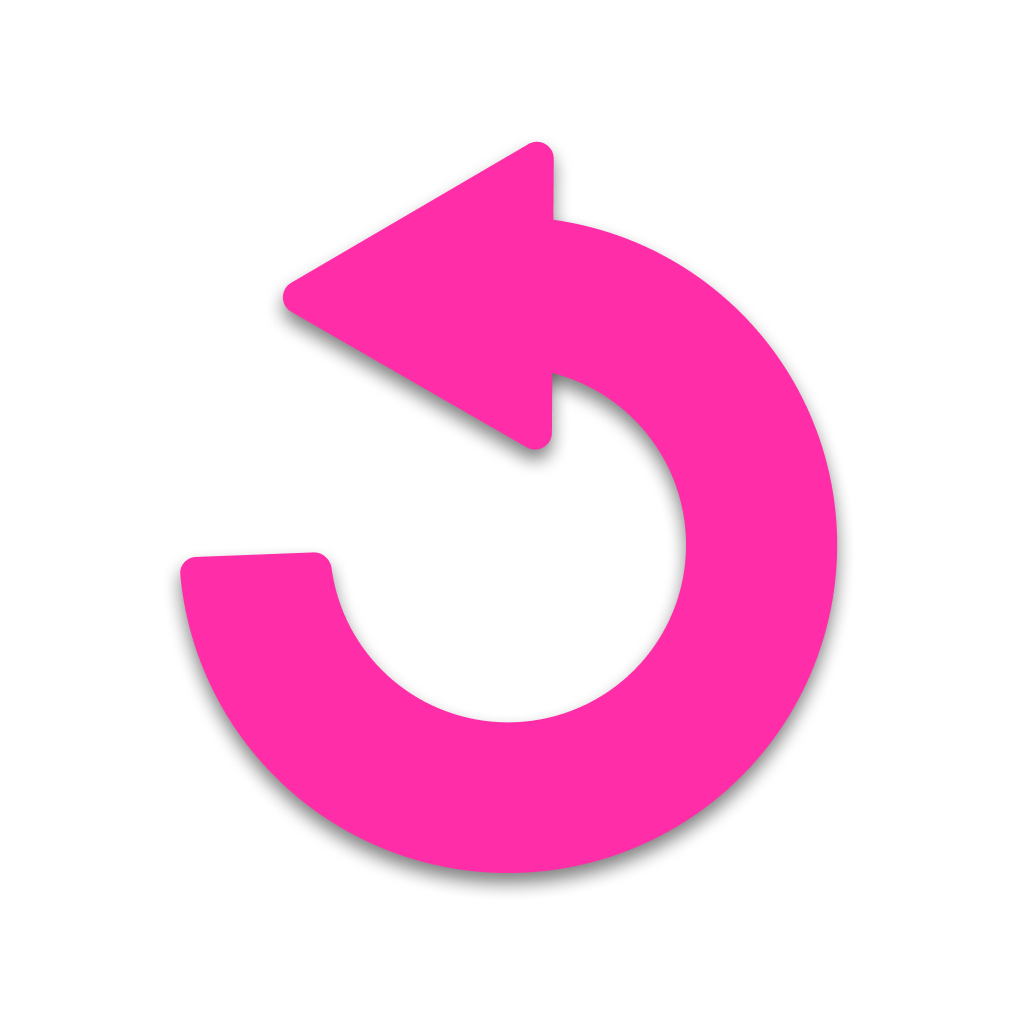
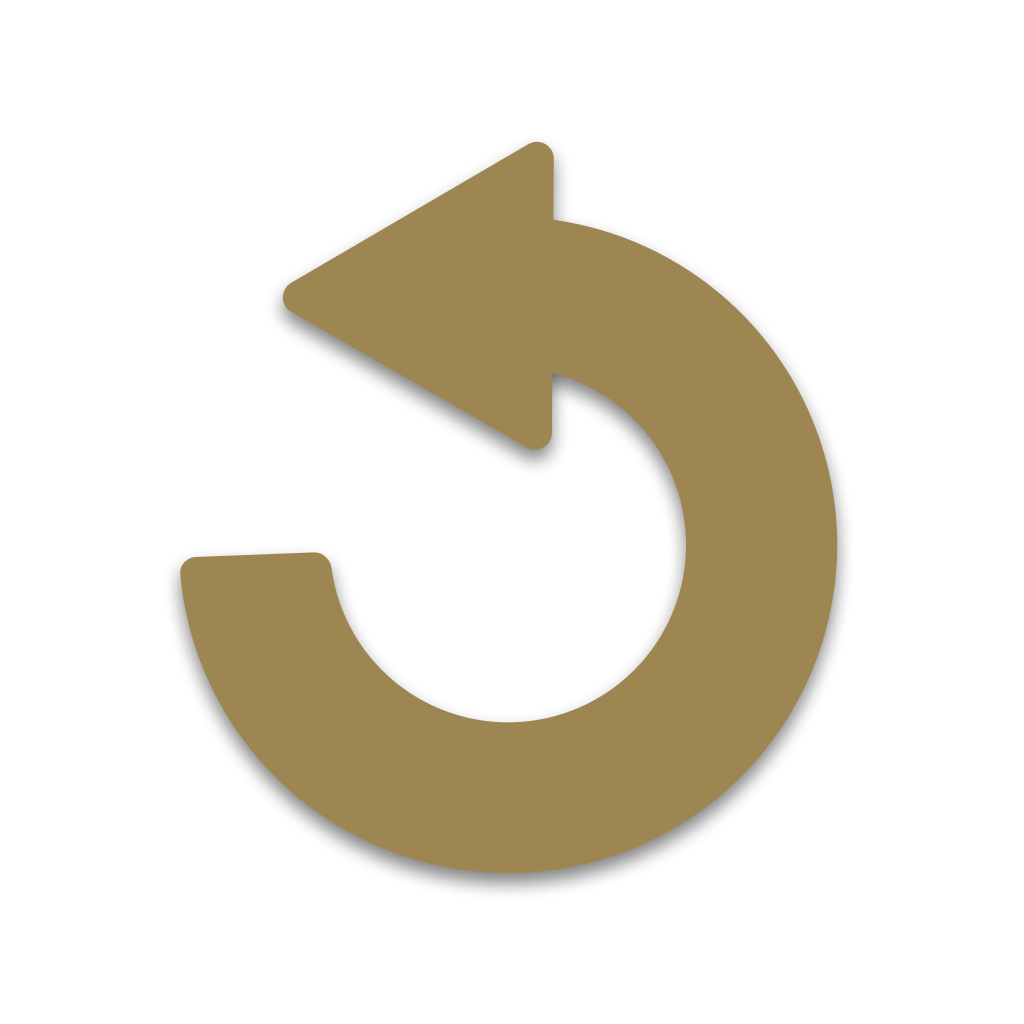
layout dourado finalizado

Changed region(s): [[0.1562, 0.125, 0.8438, 0.875]]

diff --git a/pages/profile/[profile_id].tsx b/pages/profile/[profile_id].tsx
@@ -72,7 +72,7 @@ const Profile = () => {
     } catch (error) {
       console.error(error);
       console.log(
-        "Erro ao buscar imagem de perfil!!! f(handleGetProfileImage)"
+        "Erro ao buscar imagem de perfil!!! f(handleGetProfileImage)",
       );
     }
   };
@@ -110,7 +110,7 @@ const Profile = () => {
     } catch (error) {
       console.error(error);
       console.log(
-        "Erro ao buscar video na galeria do perfil!!! f(handleGetVideo)"
+        "Erro ao buscar video na galeria do perfil!!! f(handleGetVideo)",
       );
     }
   };
@@ -132,7 +132,7 @@ const Profile = () => {
     } catch (error) {
       console.error(error);
       console.log(
-        "Erro ao atualizar background color em body!!! f(handleChangeBodyColor)"
+        "Erro ao atualizar background color em body!!! f(handleChangeBodyColor)",
       );
     }
   };
@@ -318,14 +318,14 @@ const Profile = () => {
               <div className="md:grid md:grid-cols-3 md:w-full md:justify-start">
                 <div id="resume" className="grid grid-cols-3 md:py-5 w-full">
                   <div
-                    className={`grid grid-cols-3 py-5 col-span-3 rounded-3xl md:bg-[#D9D9D9] shadow-none mr-5 lg:pl-4 md:pl-0 pb-10 md:grid-cols-1 lg:grid-cols-3 md:shadow md:shadow-lg md:shadow-[#EC268F]`}
+                    className={`grid grid-cols-3 py-5 col-span-3 rounded-3xl md:bg-[#D9D9D9] shadow-none mr-5 lg:pl-4 md:pl-0 pb-10 md:grid-cols-1 lg:grid-cols-3 md:shadow md:shadow-lg md:shadow-[#9D8652]`}
                   >
                     <div className="flex justify-start md:justify-center">
                       <div className="w-24 h-24 xl:w-32 xl:h-32">
                         <img
                           src={profileImage}
                           alt="Imagem Não encontrada"
-                          className="rounded-full w-full h-full object-cover shadow shadow-lg shadow-[#EC268F]"
+                          className="rounded-full w-full h-full object-cover shadow shadow-lg shadow-[#9D8652]"
                         />
                       </div>
                     </div>
@@ -356,7 +356,7 @@ const Profile = () => {
                           <h3
                             onClick={() => {
                               window.open(
-                                `https://api.whatsapp.com/send?phone=55${Profile[0]?.celular}&text=Olá, vi seu perfil no Base Rosa Sp, gostaria de mais informações`
+                                `https://api.whatsapp.com/send?phone=55${Profile[0]?.celular}&text=Olá, vi seu perfil no Base Rosa Sp, gostaria de mais informações`,
                               );
                             }}
                             className={`ml-1 cursor-pointer text-md md:text-sm lg:text-md  ${
@@ -372,7 +372,7 @@ const Profile = () => {
                     </div>
                   </div>
                   <div
-                    className={`overflow-x-auto relative shadow-md rounded-3xl my-10 col-span-3 mr-5 hidden md:block shadow shadow-lg shadow-[#EC268F]`}
+                    className={`overflow-x-auto relative shadow-md rounded-3xl my-10 col-span-3 mr-5 hidden md:block shadow shadow-lg shadow-[#9D8652]`}
                   >
                     <table className="w-full text-sm text-left ">
                       <thead className="text-xs text-gray-700 uppercase bg-gray-50 dark:bg-gray-700 dark:text-gray-400">
@@ -665,7 +665,7 @@ const Profile = () => {
                 </div>
                 <div
                   id="divisor"
-                  className={`w-full h-[4px]  rounded-full md:hidden bg-[#EC268F]`}
+                  className={`w-full h-[4px]  rounded-full md:hidden bg-[#9D8652]`}
                 />
 
                 <div
@@ -687,7 +687,7 @@ const Profile = () => {
                           : "https://viudhkddfyymxinmimyo.supabase.co/storage/v1/object/public/photos/default"
                       }
                       alt="Imagem Não encontrada"
-                      className={`rounded-3xl shadow object-cover h-full md:h-[33rem] rounded-3xl shadow shadow-lg shadow-[#EC268F]`}
+                      className={`rounded-3xl shadow object-cover h-full md:h-[33rem] rounded-3xl shadow shadow-lg shadow-[#9D8652]`}
                     />
                   </div>
                   <div className="grid grid-cols-1 gap-4 w-full h-48 md:h-[33rem] cursor-pointer">
@@ -696,7 +696,7 @@ const Profile = () => {
                         setcurrentPhotoInViewMode(1);
                         setViewPhotoMode(true);
                       }}
-                      className={`flex justify-center items-center relative w-full bg-transparent overflow-hidden rounded-3xl shadow shadow-lg shadow-[#EC268F]`}
+                      className={`flex justify-center items-center relative w-full bg-transparent overflow-hidden rounded-3xl shadow shadow-lg shadow-[#9D8652]`}
                     >
                       <img
                         id="02"
@@ -714,7 +714,7 @@ const Profile = () => {
                         setcurrentPhotoInViewMode(2);
                         setViewPhotoMode(true);
                       }}
-                      className={`flex justify-center items-center relative w-full bg-transparent cursor-pointer overflow-hidden rounded-3xl shadow shadow-lg shadow-[#EC268F]`}
+                      className={`flex justify-center items-center relative w-full bg-transparent cursor-pointer overflow-hidden rounded-3xl shadow shadow-lg shadow-[#9D8652]`}
                     >
                       <img
                         id="03"
@@ -743,7 +743,7 @@ const Profile = () => {
                           : "https://viudhkddfyymxinmimyo.supabase.co/storage/v1/object/public/photos/default"
                       }
                       alt="Imagem Não encontrada"
-                      className={`md:h-[33rem] h-full object-cover rounded-3xl shadow shadow-lg shadow-[#EC268F]`}
+                      className={`md:h-[33rem] h-full object-cover rounded-3xl shadow shadow-lg shadow-[#9D8652]`}
                     />
                   </div>
                   <div
@@ -756,7 +756,7 @@ const Profile = () => {
                     <img
                       // onError={() => {
                       //   const img = Dom.querySelector(
-                      //     "md:h-[33rem] full object-cover rounded-3xl shadow shadow-lg shadow-[#EC268F]"
+                      //     "md:h-[33rem] full object-cover rounded-3xl shadow shadow-lg shadow-[#9D8652]"
                       //   );
                       //   if (img !== null) {
                       //     img.style.display = "none";
@@ -769,7 +769,7 @@ const Profile = () => {
                           : "https://viudhkddfyymxinmimyo.supabase.co/storage/v1/object/public/photos/404"
                       }
                       alt="Imagem Não encontrada"
-                      className={`md:h-[33rem] full object-cover rounded-3xl shadow shadow-lg shadow-[#EC268F]`}
+                      className={`md:h-[33rem] full object-cover rounded-3xl shadow shadow-lg shadow-[#9D8652]`}
                     />
                   </div>
                   <div
@@ -787,19 +787,19 @@ const Profile = () => {
                           : "https://viudhkddfyymxinmimyo.supabase.co/storage/v1/object/public/photos/default"
                       }
                       alt="Imagem Não encontrada"
-                      className={`h-full md:h-[33rem] object-cover rounded-3xl shadow shadow-lg shadow-[#EC268F]`}
+                      className={`h-full md:h-[33rem] object-cover rounded-3xl shadow shadow-lg shadow-[#9D8652]`}
                     />
                   </div>
                 </div>
                 <div
                   id="divisor 2"
-                  className={`w-full h-[4px] rounded-full mt-10 col-span-3 bg-[#EC268F]`}
+                  className={`w-full h-[4px] rounded-full mt-10 col-span-3 bg-[#9D8652]`}
                 />
                 <div className="col-span-3">
                   <h1 className="text-xl font-semibold">Vídeo</h1>
 
                   <div
-                    className={`flex justify-center w-full h-48 md:h-[33rem] bg-gray-400 my-5 rounded-3xl shadow shadow-lg shadow-[#EC268F]`}
+                    className={`flex justify-center w-full h-48 md:h-[33rem] bg-gray-400 my-5 rounded-3xl shadow shadow-lg shadow-[#9D8652]`}
                   >
                     <video
                       className="w-full h-48 md:h-[33rem] rounded-3xl"
@@ -812,7 +812,7 @@ const Profile = () => {
                   </div>
                 </div>
                 <div
-                  className={`overflow-x-auto relative shadow-md rounded-3xl my-10 shadow shadow-md md:hidden shadow shadow-lg shadow-[#EC268F]`}
+                  className={`overflow-x-auto relative shadow-md rounded-3xl my-10 shadow shadow-md md:hidden shadow shadow-lg shadow-[#9D8652]`}
                 >
                   <table className="w-full text-sm text-left ">
                     <thead className="text-xs text-gray-700 uppercase bg-gray-50 dark:bg-gray-700 dark:text-gray-400">
@@ -1110,7 +1110,7 @@ const Profile = () => {
         <div
           onClick={() => {
             window.open(
-              `https://api.whatsapp.com/send?phone=55${Profile[0]?.celular}&text=Ol%C3%A1,%20vi%20seu%20perfil%20na%20Base%20Rosa%20Sp,%20gostaria%20de%20mais%20informa%C3%A7%C3%B5es%20%E2%9D%A4`
+              `https://api.whatsapp.com/send?phone=55${Profile[0]?.celular}&text=Ol%C3%A1,%20vi%20seu%20perfil%20na%20Base%20Rosa%20Sp,%20gostaria%20de%20mais%20informa%C3%A7%C3%B5es%20%E2%9D%A4`,
             );
           }}
           className="relative flex justify-center items-center z-20 text-center rounded-xl bg-[#26852B] p-2 text-white cursor-pointer"

diff --git a/pages/index.tsx b/pages/index.tsx
@@ -103,7 +103,7 @@ export default function Home() {
       const { data } = supabase.storage
         .from("photos")
         .getPublicUrl(
-          `${AllGirls[girlNumberCount]?.id}/${AllGirls[girlNumberCount]?.id}_capa`
+          `${AllGirls[girlNumberCount]?.id}/${AllGirls[girlNumberCount]?.id}_capa`,
         );
 
       if (data) {
@@ -112,7 +112,7 @@ export default function Home() {
     } catch (error) {
       console.error(error);
       console.log(
-        "Erro ao buscar foto de capa da garota atual!!! f(handleGetCurrentGirlImage)"
+        "Erro ao buscar foto de capa da garota atual!!! f(handleGetCurrentGirlImage)",
       );
     }
   };
@@ -125,7 +125,7 @@ export default function Home() {
           .getPublicUrl(
             `${AllGirls[girlNumberCount - 1]?.id}/${
               AllGirls[girlNumberCount - 1]?.id
-            }_capa`
+            }_capa`,
           );
 
         if (data) {
@@ -137,7 +137,7 @@ export default function Home() {
     } catch (error) {
       console.error(error);
       console.log(
-        "Erro ao buscar foto de capa da garota anterior!!! f(handleGetPreviousGirlImage)"
+        "Erro ao buscar foto de capa da garota anterior!!! f(handleGetPreviousGirlImage)",
       );
     }
   };
@@ -152,7 +152,7 @@ export default function Home() {
           .getPublicUrl(
             `${AllGirls[girlNumberCount + 1]?.id}/${
               AllGirls[girlNumberCount + 1]?.id
-            }_capa`
+            }_capa`,
           );
 
         if (data) {
@@ -162,7 +162,7 @@ export default function Home() {
     } catch (error) {
       console.error(error);
       console.log(
-        "Erro ao buscar foto de capa da proxima garota!!! f(handleGetNextGirlImage)"
+        "Erro ao buscar foto de capa da proxima garota!!! f(handleGetNextGirlImage)",
       );
     }
   };
@@ -196,7 +196,7 @@ export default function Home() {
     } catch (error) {
       console.error(error);
       console.log(
-        "Erro ao atualizar background color em body!!! f(handleChangeBodyColor)"
+        "Erro ao atualizar background color em body!!! f(handleChangeBodyColor)",
       );
     }
   };
@@ -264,13 +264,13 @@ export default function Home() {
               Anterior
             </h1>
             {girlNumberCount === 0 && (
-              <div className="flex justify-center shadow-md shadow-[#EC268F] items-center text-2xl text-[#828282] bg-white w-full rounded-3xl md:w-[250px] lg:w-[300px] xl:w-[350px] 2xl:w-[400px] md:h-[300px] lg:h-[350px] xl:h-[500px] 2xl:h-[600px]">
+              <div className="flex justify-center shadow-md shadow-[#9D8652] items-center text-2xl text-[#828282] bg-white w-full rounded-3xl md:w-[250px] lg:w-[300px] xl:w-[350px] 2xl:w-[400px] md:h-[300px] lg:h-[350px] xl:h-[500px] 2xl:h-[600px]">
                 <h1>Vazio</h1>
               </div>
             )}
             {girlNumberCount > 0 && (
               <div>
-                <div className="rounded-3xl shadow-md shadow-[#EC268F] md:w-[150px] lg:w-[250px] xl:w-[300px] 2xl:w-[350px] md:h-[200px] lg:h-[300px] xl:h-[400px] 2xl:h-[500px]">
+                <div className="rounded-3xl shadow-md shadow-[#9D8652] md:w-[150px] lg:w-[250px] xl:w-[300px] 2xl:w-[350px] md:h-[200px] lg:h-[300px] xl:h-[400px] 2xl:h-[500px]">
                   <img
                     src={previousGirl}
                     alt=""
@@ -369,7 +369,7 @@ export default function Home() {
                 <img
                   src={currentGirl}
                   alt=""
-                  className={`rounded-3xl shadow shadow-xl brightness-75 shadow-[#EC268F]  md:w-[150px] lg:w-[300px] xl:w-[300px] 2xl:w-[350px] md:h-[200px] lg:h-[350px] xl:h-[400px] 2xl:h-[500px]`}
+                  className={`rounded-3xl shadow shadow-xl brightness-75 shadow-[#9D8652]  md:w-[150px] lg:w-[300px] xl:w-[300px] 2xl:w-[350px] md:h-[200px] lg:h-[350px] xl:h-[400px] 2xl:h-[500px]`}
                 />
               </div>
 
@@ -465,13 +465,13 @@ export default function Home() {
               Próxima
             </h1>
             {girlNumberCount + 1 === AllGirls.length && (
-              <div className="flex justify-center shadow-md shadow-[#EC268F] items-center text-2xl text-[#828282] bg-white w-full rounded-3xl md:w-[250px] lg:w-[300px] xl:w-[350px] 2xl:w-[400px] md:h-[300px] lg:h-[350px] xl:h-[500px] 2xl:h-[600px]">
+              <div className="flex justify-center shadow-md shadow-[#9D8652] items-center text-2xl text-[#828282] bg-white w-full rounded-3xl md:w-[250px] lg:w-[300px] xl:w-[350px] 2xl:w-[400px] md:h-[300px] lg:h-[350px] xl:h-[500px] 2xl:h-[600px]">
                 <h1>Vazio</h1>
               </div>
             )}
             {girlNumberCount + 1 < AllGirls.length && (
               <div>
-                <div className="rounded-3xl shadow-md shadow-[#EC268F] md:w-[150px] lg:w-[250px] xl:w-[300px] 2xl:w-[350px] md:h-[200px] lg:h-[300px] xl:h-[400px] 2xl:h-[500px]">
+                <div className="rounded-3xl shadow-md shadow-[#9D8652] md:w-[150px] lg:w-[250px] xl:w-[300px] 2xl:w-[350px] md:h-[200px] lg:h-[300px] xl:h-[400px] 2xl:h-[500px]">
                   <img
                     src={nextGirl}
                     alt=""
